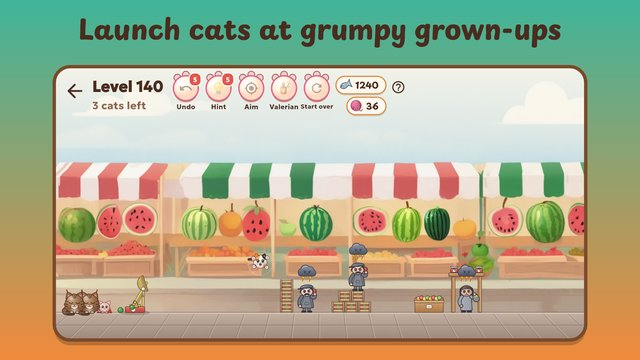
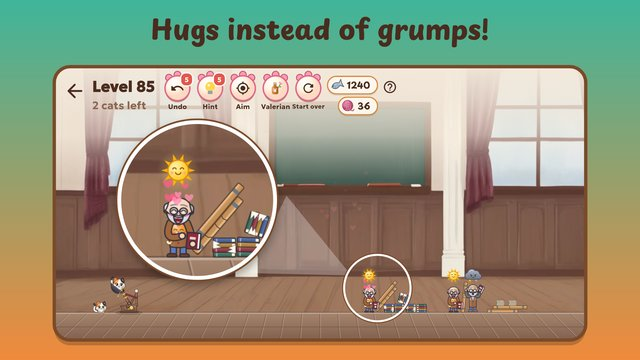
Catapult Cats: page screenshot follows the new first store shot

diff --git a/kotopulta/index.html b/kotopulta/index.html
@@ -28,7 +28,7 @@
 <header><img src="icon_512.png" alt=""><h1>Котопульта</h1></header>
 <p class="lead">Строгий завуч, суровый профессор, душный начальник… Хватит хмуриться! Заряжай котопульту пушистыми котиками.</p>
 <p>Оттяни кота, прицелься по пунктиру и отпусти. Каждое попадание котом или упавшей партой гасит грозовую тучку над чьей-то головой, и одежда из серой становится яркой. Когда тучек не осталось, все счастливы, а уровень пройден!</p>
-<p class="shot"><img src="shot_ru.jpg" alt="Рынок: рыжий котик летит из котопульты-весов к хмурым торговцам под грозовыми тучками" width="640" height="360"></p>
+<p class="shot"><img src="shot_ru.jpg" alt="Университет: профессор под солнышком в сердечках обнимает котика, рядом рассыпались учебники" width="640" height="360"></p>
 <div class="card">
 <ul>
 <li><b>200 уровней в 16 местах:</b> школа, столовая, спортзал, деревня, ферма, дача, универ, общежитие, библиотека, двор, поликлиника, рынок, вокзал, завод, стройка и офис в понедельник. В каждом месте своя котопульта: линейка, половник, весы, тележка носильщика.</li>

diff --git a/kotopulta/en/index.html b/kotopulta/en/index.html
@@ -28,7 +28,7 @@
 <header><img src="../icon_512.png" alt=""><h1>Catapult Cats</h1></header>
 <p class="lead">A stern head teacher, a grumpy professor, a stuffy boss… Enough frowning! Load the catapult with fluffy cats.</p>
 <p>Pull a cat back, aim along the dotted line and let go. Every hit by a cat or a falling desk shrinks the storm cloud over someone's head, and their grey clothes turn bright. When no clouds are left, everyone is happy and the level is won!</p>
-<p class="shot"><img src="../shot_en.jpg" alt="The market: a ginger cat flies from the scales catapult at grumpy traders under storm clouds" width="640" height="360"></p>
+<p class="shot"><img src="../shot_en.jpg" alt="The university: a professor under a smiling sun hugs a cat in a cloud of hearts beside tumbled textbooks" width="640" height="360"></p>
 <div class="card">
 <ul>
 <li><b>200 levels in 16 places:</b> school, canteen, gym, village, farm, dacha, university, dorm, library, courtyard, clinic, market, station, factory, building site and a Monday office. Every place has its own catapult: a ruler, a ladle, the scales, a porter's trolley.</li>
